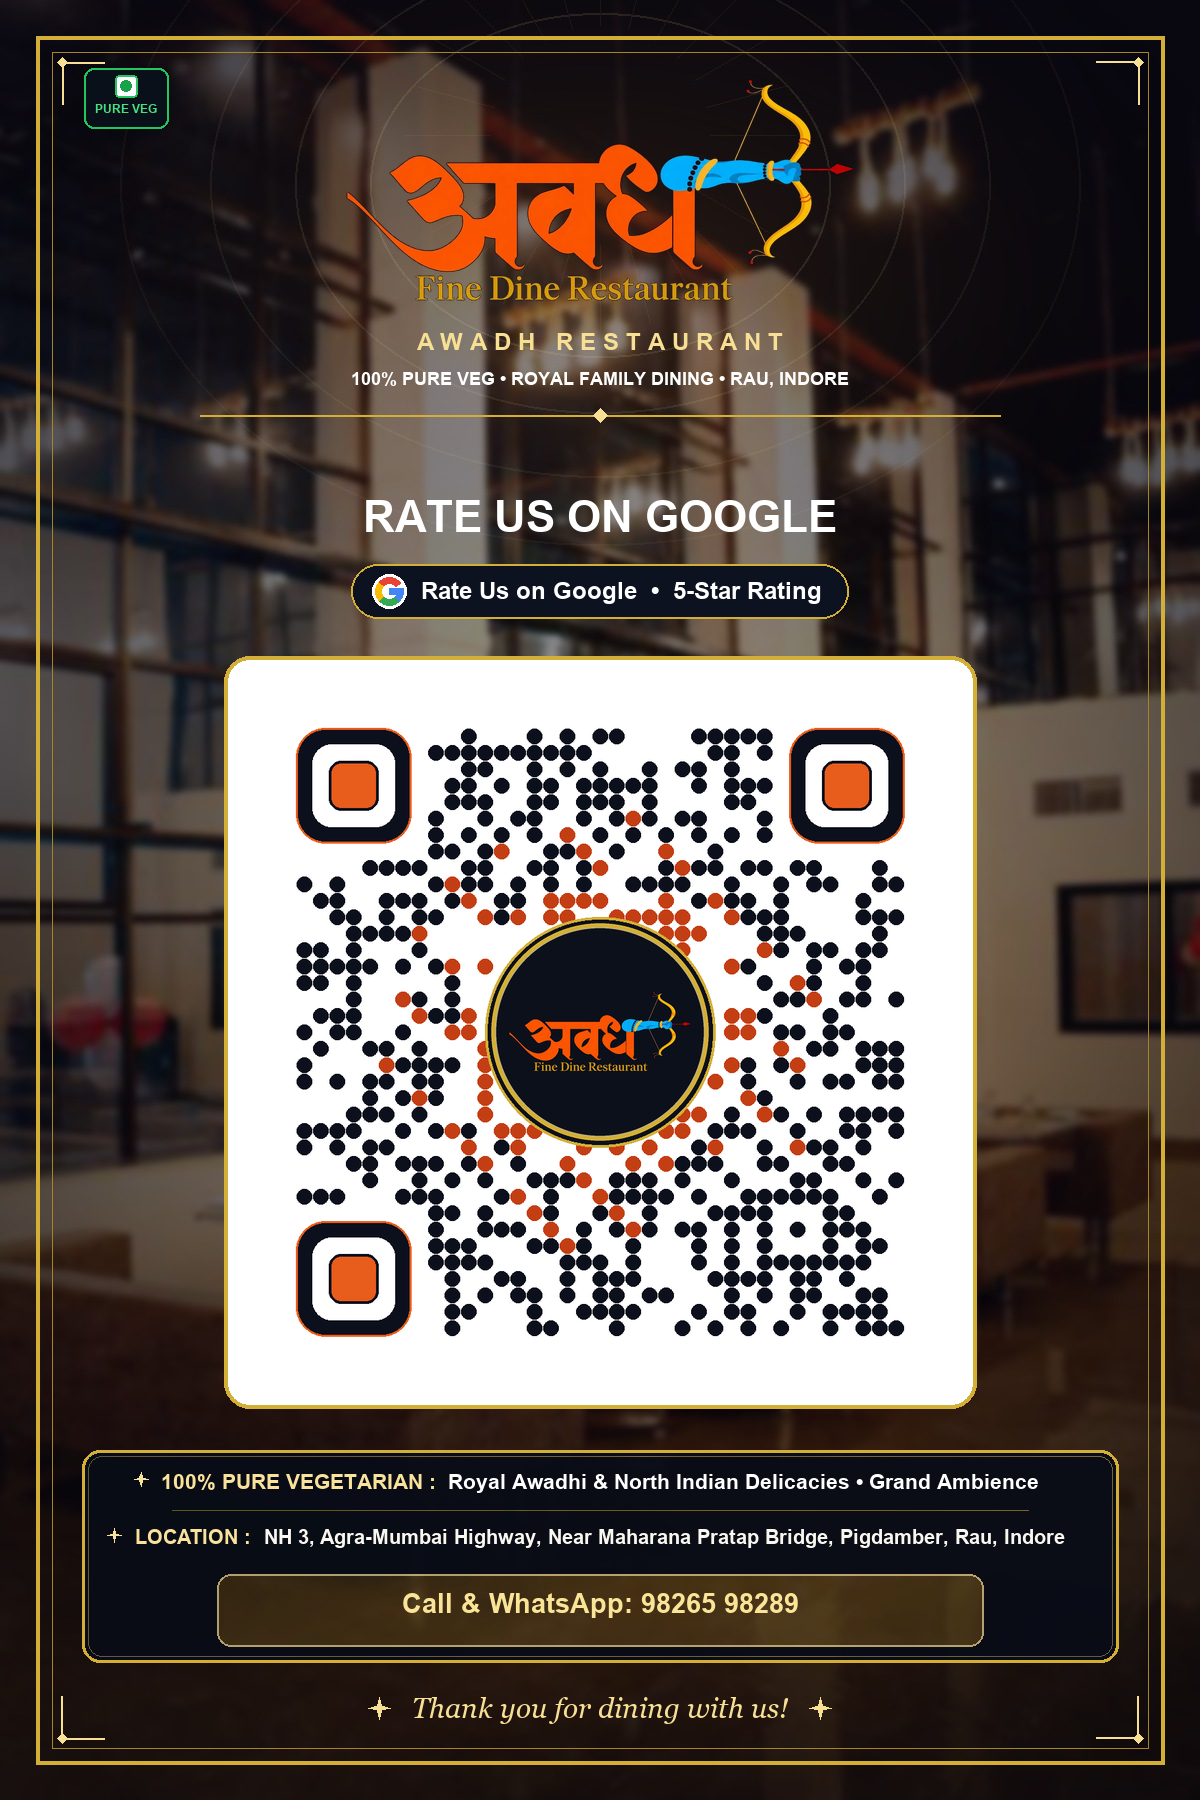
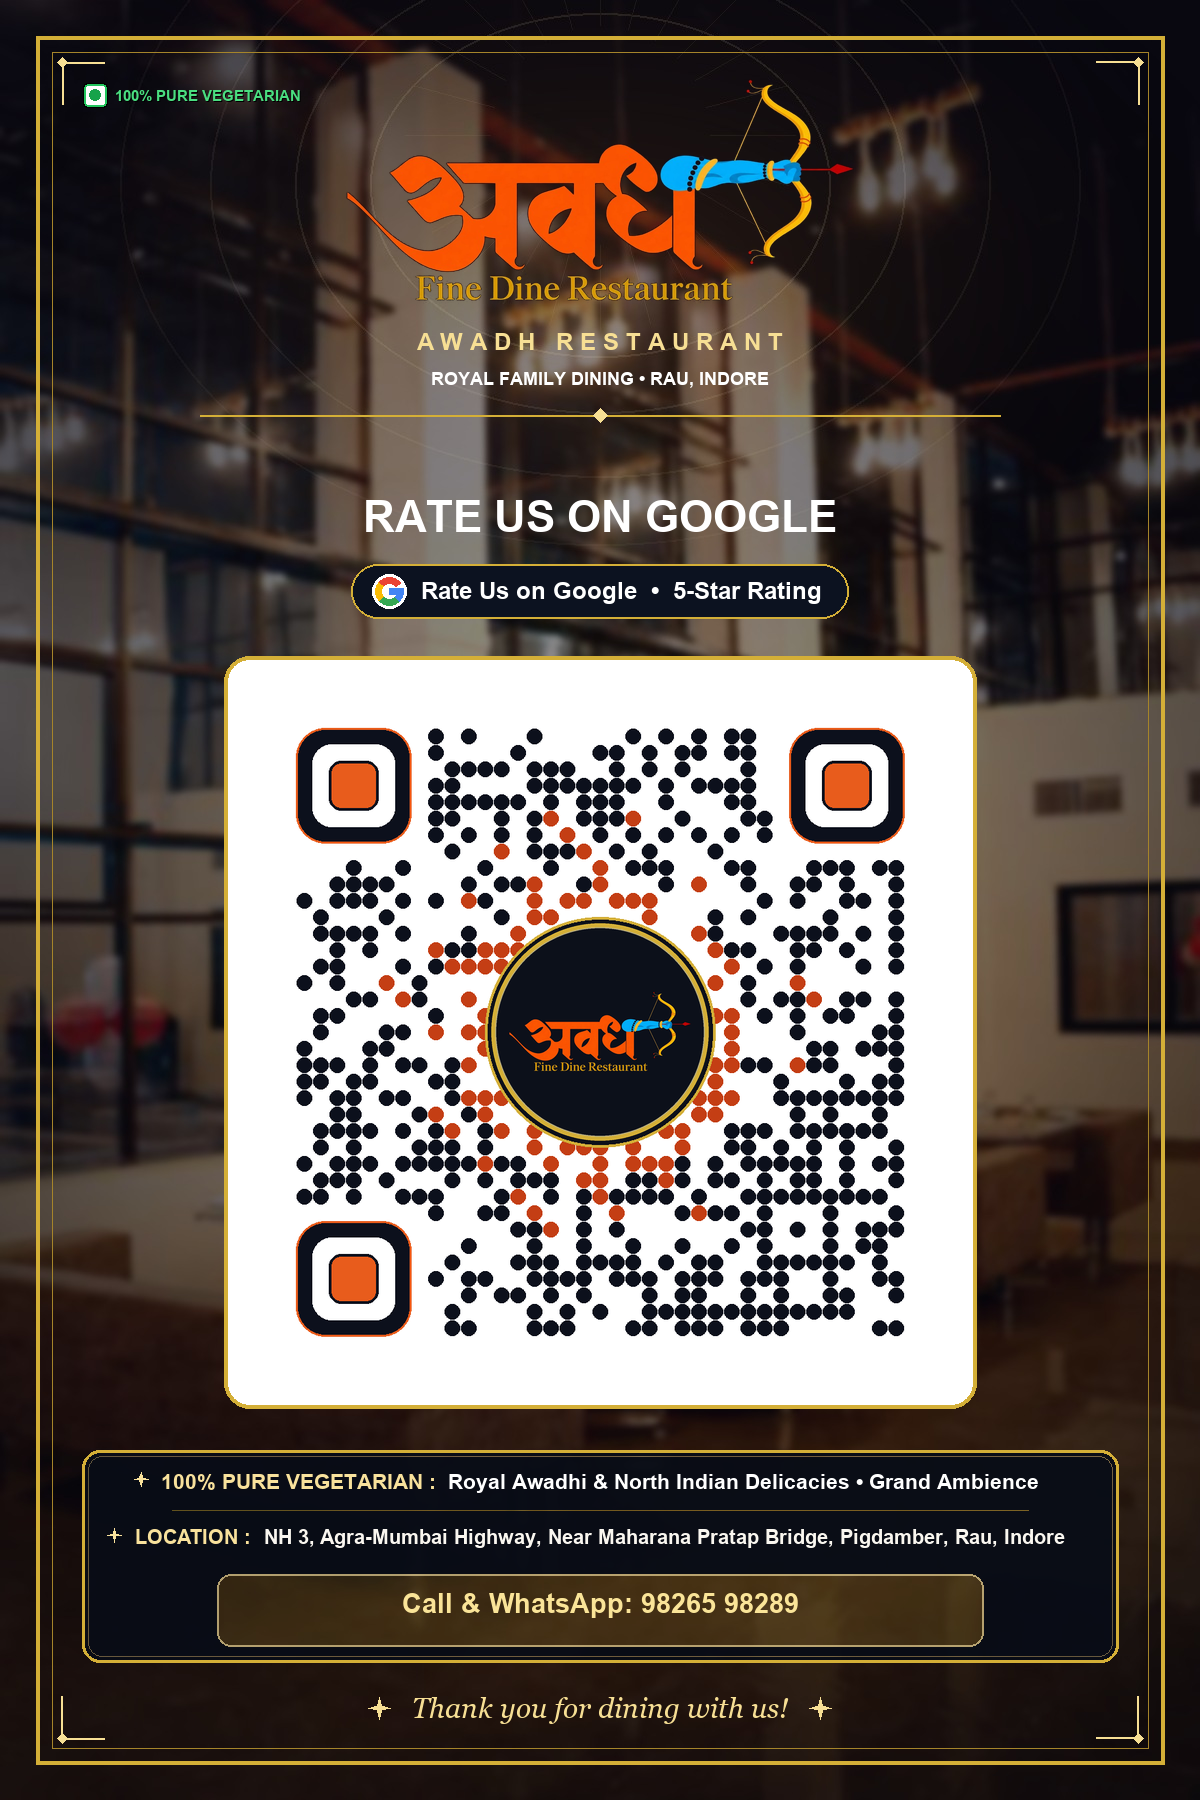
update

Changed region(s): [[0.2467, 0.4044, 0.7708, 0.7467], [0.3083, 0.1867, 0.7092, 0.2178], [0.0617, 0.0311, 0.2467, 0.0622]]

diff --git a/index.html b/index.html
@@ -125,56 +125,52 @@
             to { opacity: 1; transform: translateY(0) scale(1); }
         }
 
-        /* 1. Official Awadh Brand Header & Left-Side Pure Veg Badge */
+        /* 1. Official Awadh Brand Header & Upper-Left Pure Veg Lockup */
         .pure-veg-top-badge {
             position: absolute;
             top: 24px;
-            left: 18px;
+            left: 20px;
             z-index: 10;
             display: inline-flex;
-            flex-direction: column;
+            flex-direction: row;
             align-items: center;
-            justify-content: center;
-            gap: 3.5px;
-            background: rgba(10, 15, 26, 0.88);
-            border: 1px solid rgba(34, 197, 94, 0.55);
-            padding: 5px 8px 4px;
-            border-radius: 8px;
-            box-shadow: 0 4px 14px rgba(0, 0, 0, 0.75), 0 0 8px rgba(34, 197, 94, 0.2);
-            backdrop-filter: blur(6px);
-            -webkit-backdrop-filter: blur(6px);
+            gap: 6px;
+            background: transparent;
+            border: none;
+            padding: 0;
             user-select: none;
         }
 
         .pure-veg-mark-box {
-            width: 16px;
-            height: 16px;
-            border: 1.8px solid #22c55e;
-            border-radius: 3px;
+            width: 14px;
+            height: 14px;
+            border: 1.5px solid #22c55e;
+            border-radius: 2.5px;
             background: #ffffff;
             display: flex;
             align-items: center;
             justify-content: center;
             flex-shrink: 0;
-            box-shadow: 0 1px 3px rgba(0, 0, 0, 0.4);
+            box-shadow: 0 1px 4px rgba(0, 0, 0, 0.7);
         }
 
         .pure-veg-mark-circle {
-            width: 7.5px;
-            height: 7.5px;
+            width: 6.5px;
+            height: 6.5px;
             border-radius: 50%;
             background: #16a34a;
             display: block;
         }
 
         .pure-veg-top-text {
-            font-size: 8.5px;
+            font-size: 8px;
             font-weight: 800;
-            letter-spacing: 0.8px;
+            letter-spacing: 0.6px;
             color: #4ade80;
             text-transform: uppercase;
             line-height: 1;
             white-space: nowrap;
+            text-shadow: 0 1px 4px rgba(0, 0, 0, 0.9);
         }
 
         .brand-logo-container {
@@ -694,12 +690,12 @@
         <div class="corner-ornament corner-bl"></div>
         <div class="corner-ornament corner-br"></div>
 
-        <!-- Official Pure Veg Badge on Upper-Right Side ("right m upar side") -->
+        <!-- Official 100% Pure Vegetarian Lockup in Upper-Left Area -->
         <div class="pure-veg-top-badge" title="100% Pure Vegetarian Restaurant">
             <span class="pure-veg-mark-box">
                 <span class="pure-veg-mark-circle"></span>
             </span>
-            <span class="pure-veg-top-text">PURE VEG</span>
+            <span class="pure-veg-top-text">100% PURE VEGETARIAN</span>
         </div>
 
         <!-- 1. Official 'अवध Fine Dine Restaurant' Brand Logo -->
@@ -709,8 +705,7 @@
 
         <div class="brand-subname" id="uiSubname">AWADH RESTAURANT</div>
         <div class="brand-location">
-            <span class="pure-veg-dot" title="100% Pure Vegetarian"></span>
-            <span id="uiTagline">100% PURE VEG • ROYAL FAMILY DINING • RAU, INDORE</span>
+            <span id="uiTagline">ROYAL FAMILY DINING • RAU, INDORE</span>
         </div>
 
         <div class="gold-divider">
@@ -720,7 +715,7 @@
         <!-- 3. Primary Action Cards -->
         <main class="links-wrapper">
             <!-- Card 1: Rate Us on Google -->
-            <a href="https://share.google/nW6e8GsQL5WBQJF04" target="_blank" rel="noopener noreferrer" class="action-card primary-card" id="googleCard">
+            <a href="https://share.google/23XtQFxTAfimcK1W6" target="_blank" rel="noopener noreferrer" class="action-card primary-card" id="googleCard">
                 <div class="card-left">
                     <div class="icon-box google-icon-box">
                         <svg viewBox="0 0 24 24">
@@ -839,7 +834,7 @@
         </div>
     </div>
 
-    <script src="config.js?v=bca44c53"></script>
+    <script src="config.js?v=f959387d"></script>
     <script>
         function openLightbox(src) {
             const modal = document.getElementById('lightboxModal');

diff --git a/standee.html b/standee.html
@@ -143,52 +143,49 @@
 
         .standee-pure-veg-badge {
             position: absolute;
-            top: 24px;
-            left: 20px;
+            top: 33px;
+            left: 33px;
             z-index: 10;
             display: inline-flex;
-            flex-direction: column;
+            flex-direction: row;
             align-items: center;
-            justify-content: center;
-            gap: 3.5px;
-            background: rgba(10, 15, 26, 0.88);
-            border: 1px solid rgba(34, 197, 94, 0.55);
-            padding: 5px 8px 4px;
-            border-radius: 8px;
-            box-shadow: 0 4px 14px rgba(0, 0, 0, 0.75), 0 0 8px rgba(34, 197, 94, 0.22);
-            backdrop-filter: blur(6px);
-            -webkit-backdrop-filter: blur(6px);
+            gap: 5px;
+            background: transparent;
+            border: none;
+            padding: 0;
             user-select: none;
         }
 
         .pure-veg-mark-box {
-            width: 16px;
-            height: 16px;
-            border: 1.8px solid #22c55e;
-            border-radius: 3px;
+            width: 11px;
+            height: 11px;
+            border: 1.2px solid #22c55e;
+            border-radius: 2px;
             background: #ffffff;
             display: flex;
             align-items: center;
             justify-content: center;
             flex-shrink: 0;
-            box-shadow: 0 1px 3px rgba(0, 0, 0, 0.4);
+            box-shadow: 0 1px 3px rgba(0, 0, 0, 0.7);
         }
 
         .pure-veg-mark-circle {
-            width: 7.5px;
-            height: 7.5px;
+            width: 5px;
+            height: 5px;
             border-radius: 50%;
             background: #16a34a;
             display: block;
         }
 
         .pure-veg-top-text {
-            font-size: 8.5px;
+            font-size: 7.5px;
             font-weight: 800;
-            letter-spacing: 0.8px;
+            letter-spacing: 0.5px;
             color: #4ade80;
             text-transform: uppercase;
             line-height: 1;
+            white-space: nowrap;
+            text-shadow: 0 1px 3px rgba(0, 0, 0, 0.9);
         }
 
         .standee-logo-container {
@@ -452,18 +449,18 @@
 
         <!-- Header -->
         <div class="standee-header">
-            <!-- Official Pure Veg Badge on Upper-Right Side ("right m upar side") -->
+            <!-- Official 100% Pure Vegetarian Lockup in Upper-Left Area -->
             <div class="standee-pure-veg-badge" title="100% Pure Vegetarian">
                 <span class="pure-veg-mark-box">
                     <span class="pure-veg-mark-circle"></span>
                 </span>
-                <span class="pure-veg-top-text">PURE VEG</span>
+                <span class="pure-veg-top-text">100% PURE VEGETARIAN</span>
             </div>
             <div class="standee-logo-container">
                 <img src="awadh_title.png?v=2" alt="Awadh Restaurant" class="standee-hindi-title" id="stHindiTitle">
             </div>
             <div class="standee-subname" id="stSubname">AWADH RESTAURANT</div>
-            <div class="standee-location" id="stTagline">100% PURE VEG • ROYAL FAMILY DINING • RAU, INDORE</div>
+            <div class="standee-location" id="stTagline">ROYAL FAMILY DINING • RAU, INDORE</div>
             <div class="standee-divider"><div class="standee-diamond"></div></div>
         </div>
 
@@ -526,7 +523,7 @@
         </div>
     </div>
 
-    <script src="config.js?v=bca44c53"></script>
+    <script src="config.js?v=f959387d"></script>
     <script>
         function applyStandeeConfig(cfg) {
             if (!cfg) return;

diff --git a/config.js b/config.js
@@ -9,7 +9,7 @@ window.RESTAURANT_CONFIG = {
     name: "Awadh Restaurant",
     subname: "AWADH RESTAURANT",
     hindiTitleUrl: "awadh_title.png?v=2",
-    tagline: "100% PURE VEG • ROYAL FAMILY DINING • RAU, INDORE",
+    tagline: "ROYAL FAMILY DINING • RAU, INDORE",
     highlight: "Royal Awadhi & North Indian Delicacies • Grand Ambience",
     gardenHighlight: "Scenic Garden Seating • Luxury Swimming Pool Ambience • Open-Air Dining",
 
@@ -34,7 +34,7 @@ window.RESTAURANT_CONFIG = {
     ],
 
     // 3. Action Destination Links (Provided by User)
-    googleReviewUrl: "https://share.google/nW6e8GsQL5WBQJF04",
+    googleReviewUrl: "https://share.google/23XtQFxTAfimcK1W6",
     instagramUrl: "https://www.instagram.com/awadh_restaurant__?stkn=ODdiYTBwdDdna3Q1",
     instagramHandle: "@awadh_restaurant__",
 

diff --git a/generate_qr.py b/generate_qr.py
@@ -642,28 +642,25 @@ def draw_brand_header(canvas, draw, w=1200, config=None):
     if config is None:
         config = {}
 
-    # 1. Pure Veg Badge on Left Side, slightly lower with text underneath ("left mai thoda neeche side aur sign ke neeche pure veg")
-    badge_w = 84
-    badge_h = 60
-    bx = 84
-    by = 68
-    draw.rounded_rectangle([bx, by, bx + badge_w, by + badge_h], radius=10, fill=(10, 16, 26, 230), outline=(34, 197, 94, 220), width=2)
-
-    # Official Green Vegetarian Sign (FSSAI box + circle on top)
+    # 1. Official Pure Veg Lockup in Upper-Left Area ("100% PURE VEGETARIAN")
+    # Positioned ~2-3 cm below top inner border and 2-3 cm from left inner border (at x=84, y=84)
+    # Naturally printed into the luxury design with official FSSAI green veg symbol
+    vx = 84
+    vy = 84
     box_size = 22
-    box_x = bx + (badge_w - box_size) // 2
-    box_y = by + 7
-    draw.rounded_rectangle([box_x, box_y, box_x + box_size, box_y + box_size], radius=4, fill=(255, 255, 255), outline=(34, 197, 94), width=2)
-    dot_r = 5.5
-    draw.ellipse([box_x + box_size/2 - dot_r, box_y + box_size/2 - dot_r, box_x + box_size/2 + dot_r, box_y + box_size/2 + dot_r], fill=(22, 163, 74))
 
-    # "PURE VEG" text rendered directly under the sign
-    font_veg = get_font(12, bold=True)
-    bbox = draw.textbbox((0, 0), "PURE VEG", font=font_veg)
-    tw = bbox[2] - bbox[0]
-    tx = bx + (badge_w - tw) // 2
-    ty = box_y + box_size + 5
-    draw.text((tx, ty), "PURE VEG", fill=(74, 222, 128), font=font_veg)
+    # Official Green Vegetarian Sign (FSSAI white square box + green outline + green dot)
+    draw.rounded_rectangle([vx - 1, vy - 1, vx + box_size + 1, vy + box_size + 1], radius=4, fill=(0, 0, 0, 160))
+    draw.rounded_rectangle([vx, vy, vx + box_size, vy + box_size], radius=4, fill=(255, 255, 255), outline=(34, 197, 94), width=2)
+    dot_r = 5.5
+    draw.ellipse([vx + box_size/2 - dot_r, vy + box_size/2 - dot_r, vx + box_size/2 + dot_r, vy + box_size/2 + dot_r], fill=(22, 163, 74))
+
+    # "100% PURE VEGETARIAN" text horizontally aligned next to the sign, naturally printed
+    font_veg = get_font(15, bold=True)
+    tx = vx + box_size + 9
+    ty = vy + (box_size - 15) // 2
+    draw.text((tx + 1, ty + 1), "100% PURE VEGETARIAN", fill=(0, 0, 0), font=font_veg)
+    draw.text((tx, ty), "100% PURE VEGETARIAN", fill=(74, 222, 128), font=font_veg)
 
     # 2. Main Logo (Transparent 'अवध' + Bow & Arrow + 'Fine Dine Restaurant')
     title_path = "awadh_title.png"
@@ -697,7 +694,7 @@ def draw_brand_header(canvas, draw, w=1200, config=None):
         bbox = draw.textbbox((0, 0), midway_text, font=font_midway)
     draw.text(((w - (bbox[2] - bbox[0])) / 2, 328), midway_text, fill=(247, 223, 148), font=font_midway)
 
-    sub_text = config.get("tagline", "100% PURE VEG  •  ROYAL FAMILY DINING  •  RAU, INDORE")
+    sub_text = config.get("tagline", "ROYAL FAMILY DINING  •  RAU, INDORE")
     font_size_tag = 18
     font_sub = get_font(font_size_tag, bold=True)
     bbox = draw.textbbox((0, 0), sub_text, font=font_sub)
@@ -1197,7 +1194,7 @@ def sync_html_files(config, config_path="config.js"):
 
     name = config.get("name", "Awadh Restaurant")
     subname = config.get("subname", "AWADH RESTAURANT")
-    tagline = config.get("tagline", "100% PURE VEG • ROYAL FAMILY DINING • RAU, INDORE")
+    tagline = config.get("tagline", "ROYAL FAMILY DINING • RAU, INDORE")
     highlight = config.get("highlight", "Royal Awadhi & North Indian Delicacies • Grand Ambience")
     clean_highlight = re.sub(r"^\s*100%\s*pure\s*veg(etarian)?\s*[\:\•\-\–\—\.]*\s*", "", highlight, flags=re.IGNORECASE)
     garden_hl = config.get("gardenHighlight", "Scenic Garden Seating • Luxury Swimming Pool Ambience • Open-Air Dining")
